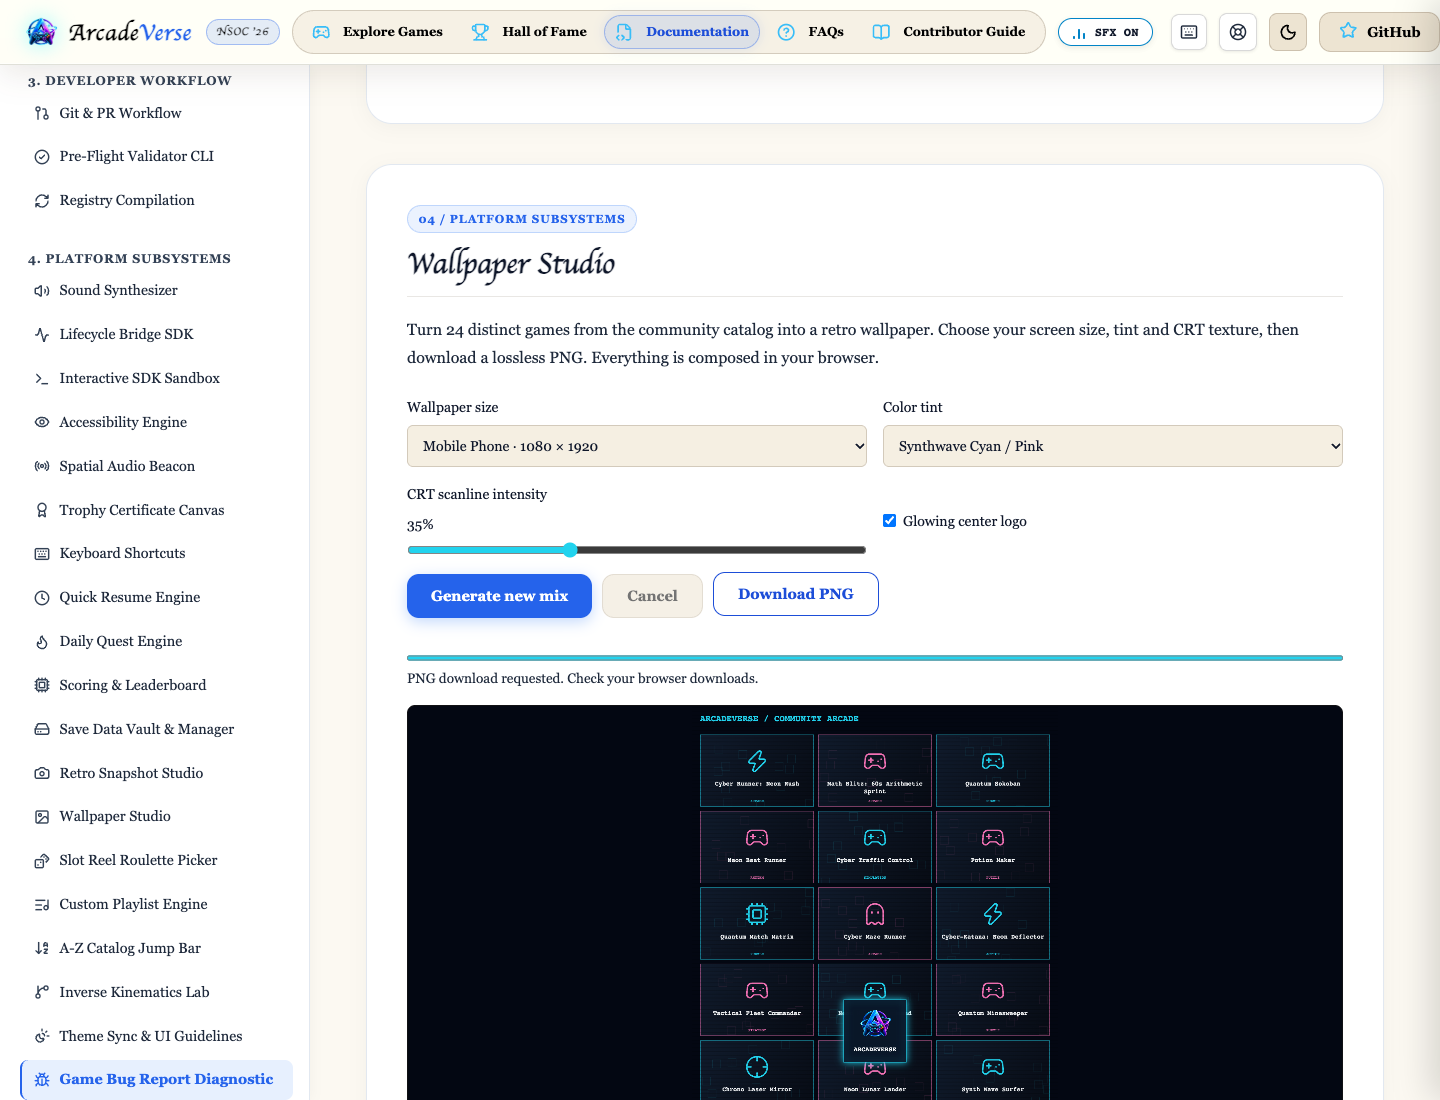
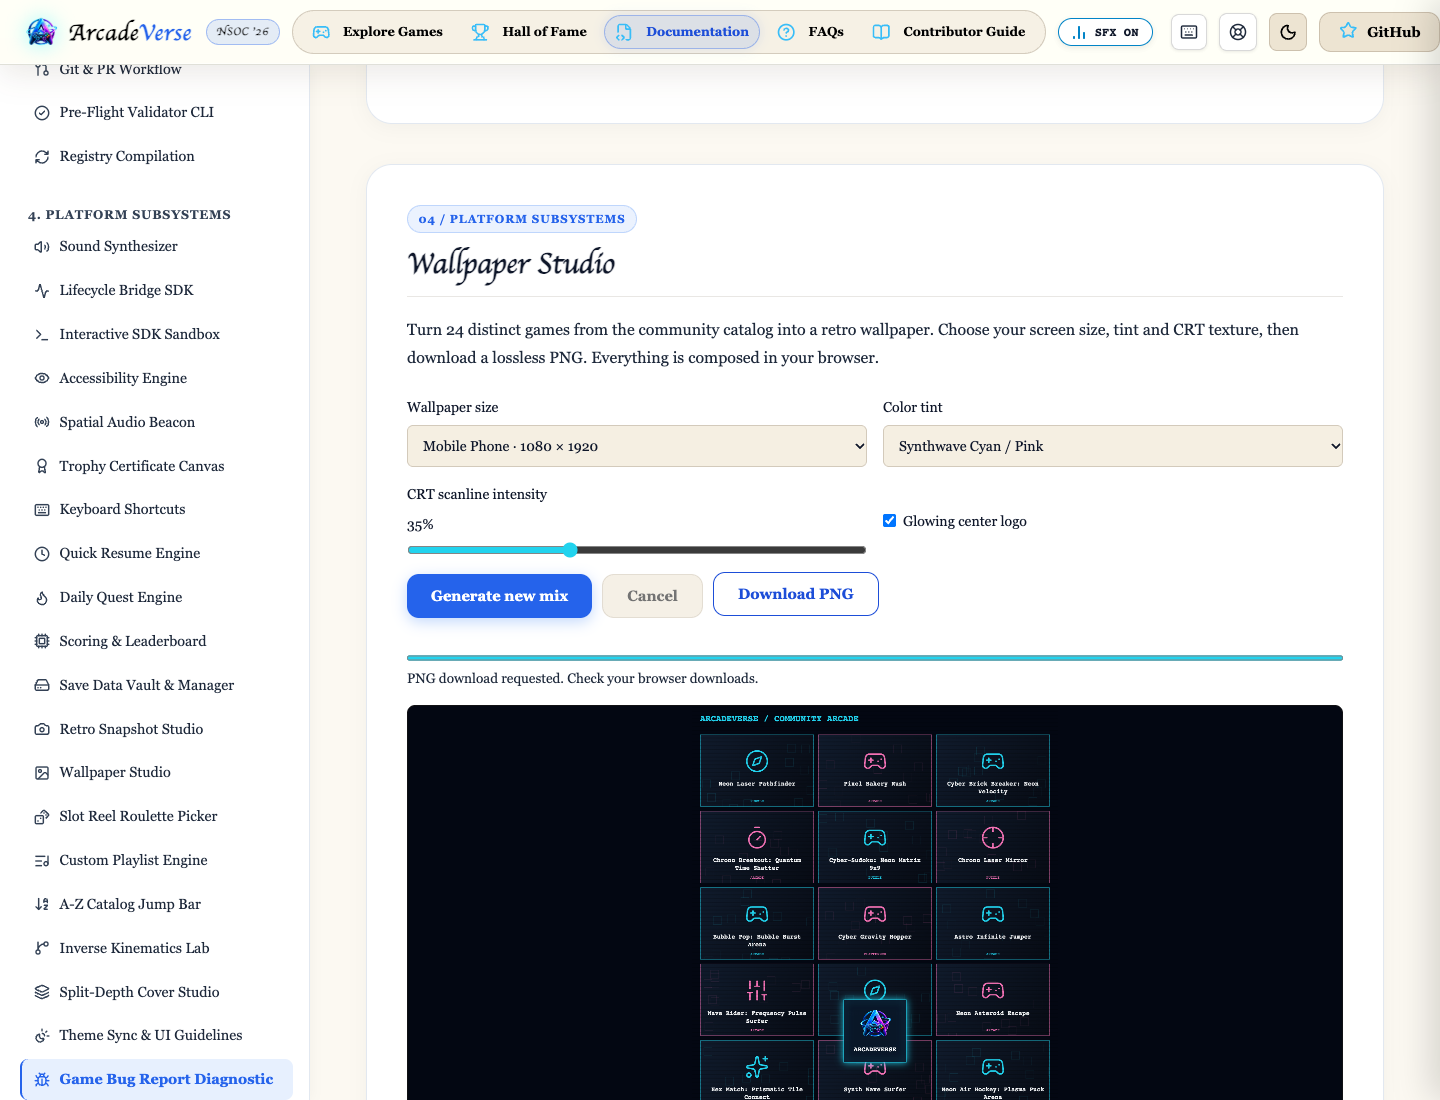
docs(review): verify wallpaper with both merged Canvas labs

diff --git a/docs/review/wallpaper-1166-sync-20261121/README.md b/docs/review/wallpaper-1166-sync-20261121/README.md
@@ -9,3 +9,5 @@ Native browser acceptance passed real Canvas/SVG generation and four actual down
 To reproduce, check out source-head.json head, run npm test, node scripts/validate-games.js --strict-assets, node scripts/build-registry.js --check and node scripts/verify-registry-integrity.js. Serve the repository over HTTP, set ARCADE_URL to that origin, ARCADE_SOURCE to the checkout, ARCADE_EVIDENCE_DIR to an output folder, PLAYWRIGHT_MODULE to an installed Playwright module and LUCIDE_FIXTURE to the included fixture, then run acceptance-browser.mjs. The harness uses installed Google Chrome.
 
 Second normal base sync at cec153ecb22e3a6ec1fb9ee222e12a40a84c78f7 incorporates upstream a2d2cb5 including the externally merged IK lab. Both stylesheet dependencies and every incoming canonical test are preserved. All three wallpaper feature files remain byte-identical. Full canonical tests, strict-assets (byte-identical to a separate fresh clean a2d2cb5 checkout), registry and metadata integrity pass. Native four actual PNG downloads decode to exact preview pixels, and all cancellation/error/retry/keyboard/mobile checks pass again.
+
+Final normal merge at 0d3be5ad99a6127862c6edf19df2cc9c5fae063c incorporates current 38e64fd after the PA merged the split-depth PR. The incoming split-depth CSS/script/docs and canonical tests are retained alongside IK and wallpaper; wallpaper feature files remain unchanged. Full canonical tests, strict assets, registry/integrity, native wallpaper PNG/browser acceptance AND the independent full split-depth browser suite pass on the combined tree. Upstream games and validation source are byte-unchanged from the separately checked a2d2cb5 baseline, and strict-asset output matches it.
